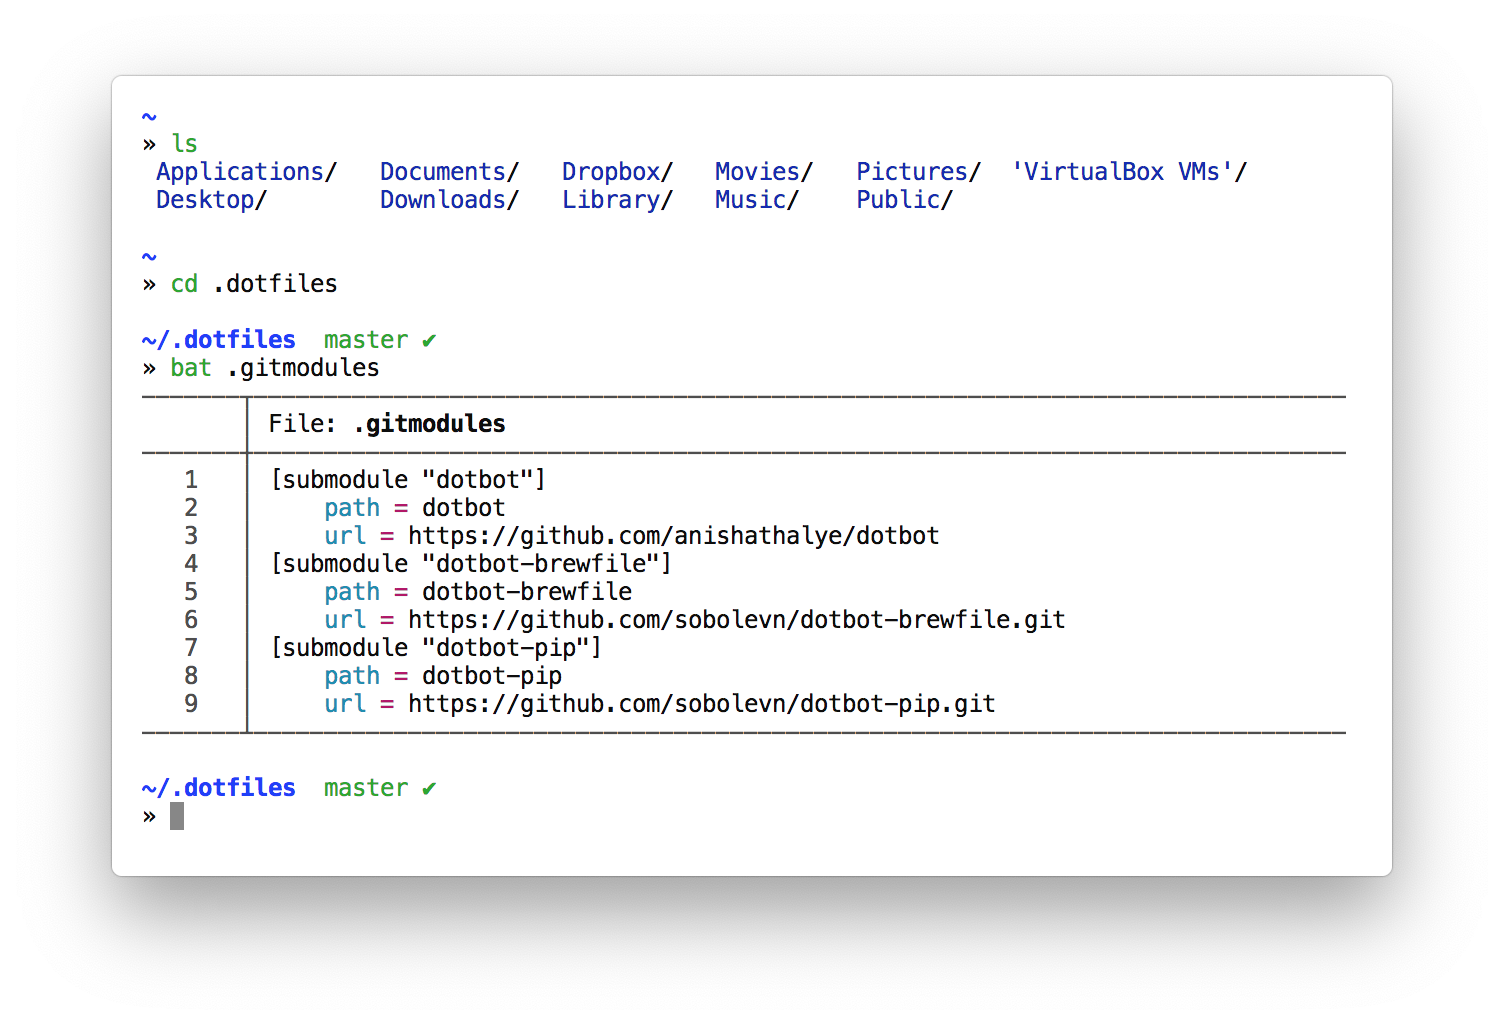
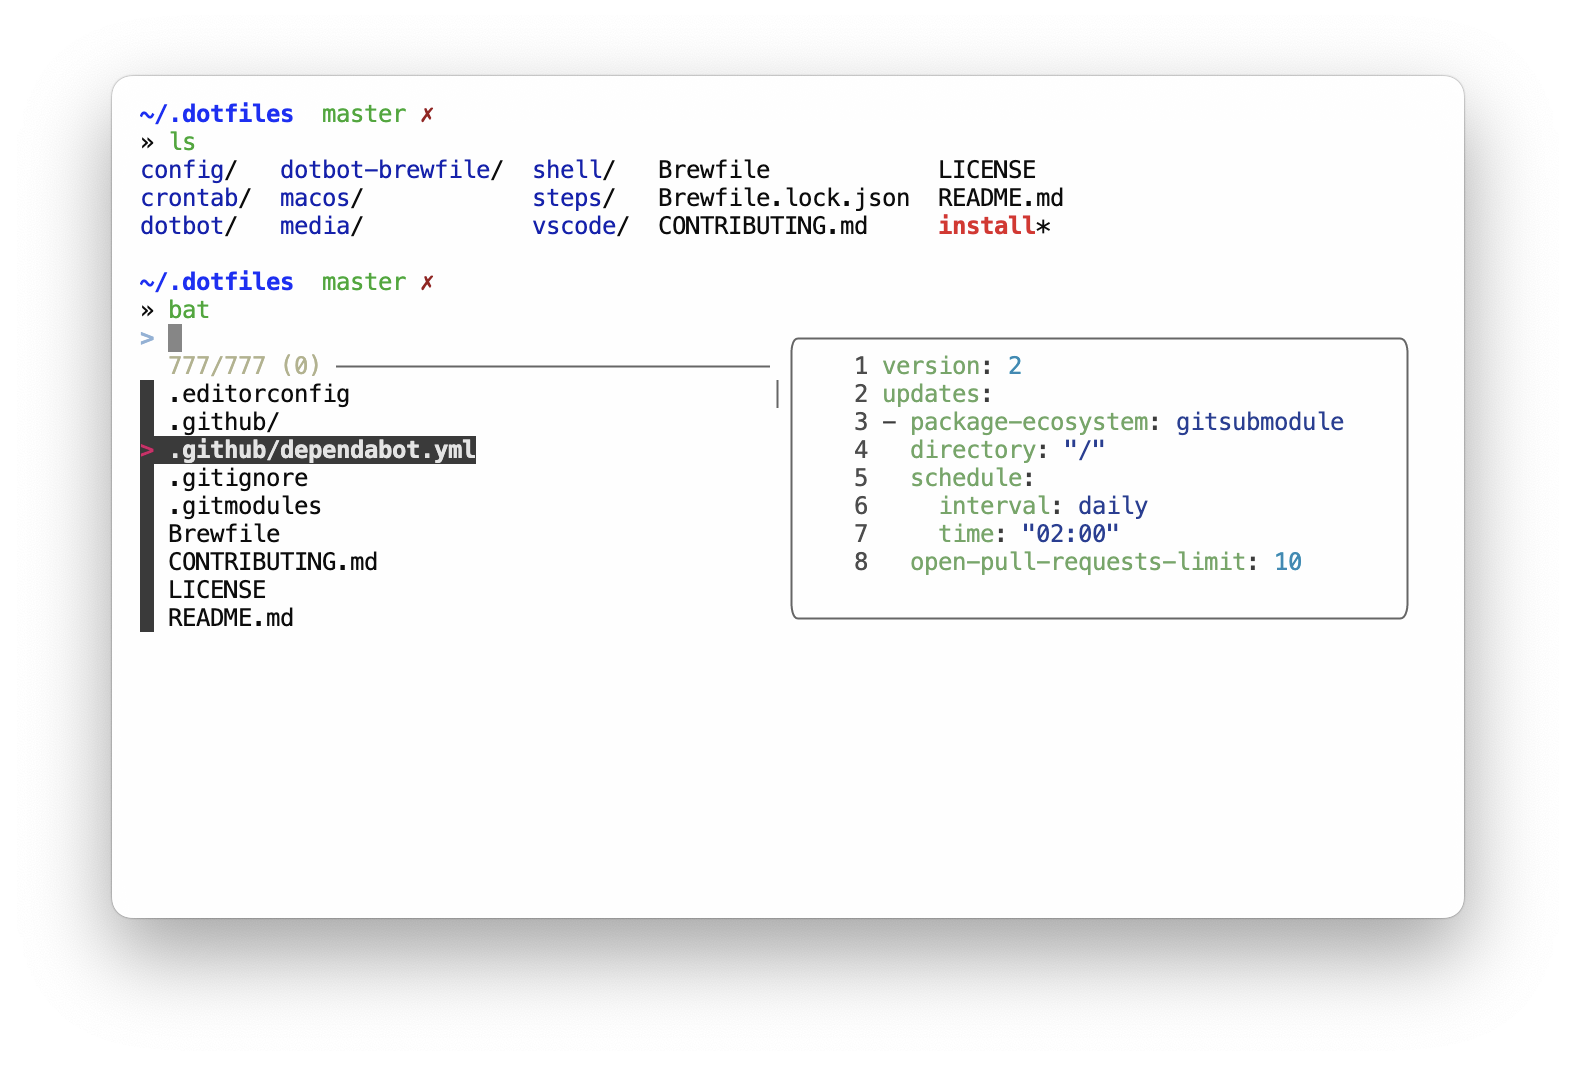
fzf docs

Changed region(s): [[0.0625, 0.0938, 0.9375, 0.875], [0.8125, 0.5, 0.8438, 0.5312]]

diff --git a/README.md b/README.md
@@ -65,6 +65,26 @@ But I don't use them on a daily basis:
 - `elixir`
 - `rust`
 
+### fzf goodies
+
+I use `fzf` for several tasks:
+
+- `tab` to autocomplete probably all the things using [`fzf-tab`](https://github.com/Aloxaf/fzf-tab)
+
+![fzf-tab](https://raw.githubusercontent.com/sobolevn/dotfiles/master/media/fzf-tab.png)
+
+- `ctrl+r` allows me to fuzzy search command history
+
+![fzf-history](https://raw.githubusercontent.com/sobolevn/dotfiles/master/media/fzf-history.png)
+
+- `ctrl+t` allows to fuzzy search files and dirs in the current tree to have include paths in commands with instant previews for text files (content) and directories (inner tree)
+
+![fzf-paths](https://raw.githubusercontent.com/sobolevn/dotfiles/master/media/fzf-paths.png)
+
+- `ctrl+g` to work with [`fzf-git`](https://github.com/junegunn/fzf-git.sh)
+
+![fzf-git](https://raw.githubusercontent.com/sobolevn/dotfiles/master/media/fzf-git.png)
+
 
 ## Apps
 
